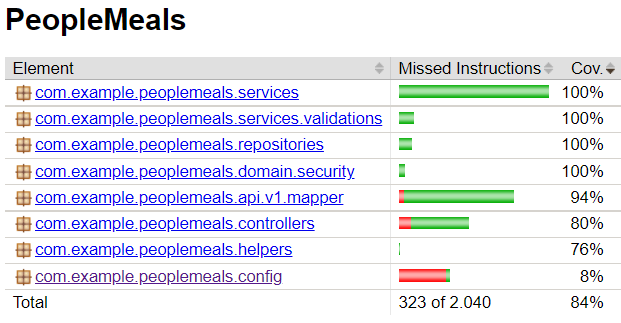
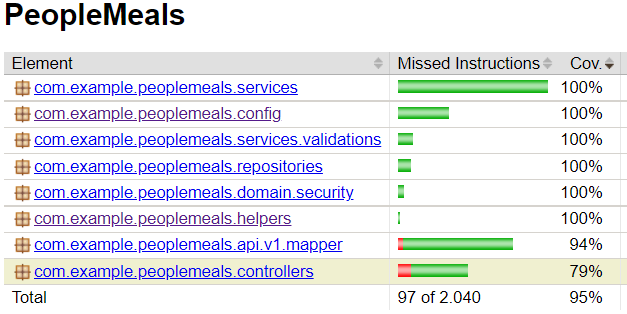
Security tests implemented. README.md updated.

diff --git a/src/test/java/com/example/peoplemeals/config/ApplicationSecurityConfigTest.java b/src/test/java/com/example/peoplemeals/config/ApplicationSecurityConfigTest.java
@@ -1,0 +1,212 @@
+package com.example.peoplemeals.config;
+
+import com.example.peoplemeals.api.v1.model.DishDTO;
+import com.example.peoplemeals.api.v1.model.forms.UserForm;
+import com.example.peoplemeals.domain.Dish;
+import com.example.peoplemeals.domain.security.Credentials;
+import com.example.peoplemeals.domain.security.Role;
+import com.example.peoplemeals.repositories.CredentialsRepository;
+import com.example.peoplemeals.repositories.DishRepository;
+import org.junit.jupiter.api.BeforeEach;
+import org.junit.jupiter.api.Nested;
+import org.junit.jupiter.api.Test;
+import org.junit.runner.RunWith;
+import org.springframework.beans.factory.annotation.Autowired;
+import org.springframework.boot.test.context.SpringBootTest;
+import org.springframework.http.MediaType;
+import org.springframework.security.test.context.support.WithMockUser;
+import org.springframework.test.context.junit4.SpringRunner;
+import org.springframework.test.web.servlet.MockMvc;
+import org.springframework.test.web.servlet.setup.MockMvcBuilders;
+import org.springframework.web.context.WebApplicationContext;
+
+import java.util.UUID;
+
+import static org.springframework.security.test.web.servlet.setup.SecurityMockMvcConfigurers.springSecurity;
+import static org.springframework.test.web.servlet.request.MockMvcRequestBuilders.*;
+import static org.springframework.test.web.servlet.result.MockMvcResultMatchers.status;
+import static testUtils.JsonConverter.asJsonString;
+
+@RunWith(SpringRunner.class)
+@SpringBootTest(webEnvironment = SpringBootTest.WebEnvironment.RANDOM_PORT)
+class ApplicationSecurityConfigTest {
+
+    private final String UUID_example = UUID.randomUUID().toString();
+    @Autowired
+    private WebApplicationContext context;
+    @Autowired
+    private DishRepository dishRepository;
+    @Autowired
+    private CredentialsRepository credentialsRepository;
+    private MockMvc mvc;
+
+    @BeforeEach
+    public void setup() {
+        mvc = MockMvcBuilders
+                .webAppContextSetup(context)
+                .apply(springSecurity())
+                .build();
+    }
+
+    @Nested
+    @WithMockUser(authorities = {"user"})
+    class AccessingWithUserRole {
+        @Nested
+        class CredentialsController {
+            private final String BASE_URL = "/credentials/";
+
+            @Test
+            void get_CredentialsController() throws Exception {
+                mvc.perform(get(BASE_URL)
+                                .accept(MediaType.APPLICATION_JSON)
+                                .contentType(MediaType.APPLICATION_JSON))
+                        .andExpect(status().isForbidden());
+            }
+
+            @Test
+            void post_CredentialsController() throws Exception {
+                mvc.perform(post(BASE_URL)
+                                .accept(MediaType.APPLICATION_JSON)
+                                .contentType(MediaType.APPLICATION_JSON)
+                                .content(asJsonString(new UserForm())))
+                        .andExpect(status().isForbidden());
+            }
+
+            @Test
+            void delete_CredentialsController() throws Exception {
+                String USERNAME_example = "username-example";
+                mvc.perform(delete(BASE_URL + USERNAME_example)
+                                .accept(MediaType.APPLICATION_JSON)
+                                .contentType(MediaType.APPLICATION_JSON))
+                        .andExpect(status().isForbidden());
+            }
+        }
+
+        @Nested
+        class DishController {
+            private final String BASE_URL = "/dishes/";
+            private final DishDTO dishDTO = new DishDTO().withName("name_example");
+
+            @Test
+            void get_DishController() throws Exception {
+                mvc.perform(get(BASE_URL)
+                                .accept(MediaType.APPLICATION_JSON)
+                                .contentType(MediaType.APPLICATION_JSON))
+                        .andExpect(status().isOk());
+            }
+
+            @Test
+            void post_DishController() throws Exception {
+                mvc.perform(post(BASE_URL)
+                                .accept(MediaType.APPLICATION_JSON)
+                                .contentType(MediaType.APPLICATION_JSON)
+                                .content(asJsonString(dishDTO)))
+                        .andExpect(status().isCreated());
+            }
+
+            @Test
+            void delete_DishController() throws Exception {
+                mvc.perform(delete(BASE_URL + UUID_example)
+                                .accept(MediaType.APPLICATION_JSON)
+                                .contentType(MediaType.APPLICATION_JSON))
+                        .andExpect(status().isForbidden());
+            }
+
+            @Test
+            void put_DishController() throws Exception {
+                Dish dishSaved = dishRepository.save(new Dish()
+                        .withName("any-name").withUuid(UUID.randomUUID()));
+                mvc.perform(put(BASE_URL + dishSaved.getUuid().toString())
+                                .accept(MediaType.APPLICATION_JSON)
+                                .contentType(MediaType.APPLICATION_JSON)
+                                .content(asJsonString(dishDTO)))
+                        .andExpect(status().isOk());
+            }
+        }
+    }
+
+    @Nested
+    @WithMockUser(authorities = {"admin"})
+    class AccessingWithAdminRole {
+        @Nested
+        class CredentialsController {
+            private final String BASE_URL = "/credentials/";
+
+            @Test
+            void get_CredentialsController() throws Exception {
+                mvc.perform(get(BASE_URL)
+                                .accept(MediaType.APPLICATION_JSON)
+                                .contentType(MediaType.APPLICATION_JSON))
+                        .andExpect(status().isOk());
+            }
+
+            @Test
+            void post_CredentialsController() throws Exception {
+                mvc.perform(post(BASE_URL)
+                                .accept(MediaType.APPLICATION_JSON)
+                                .contentType(MediaType.APPLICATION_JSON)
+                                .content(asJsonString(new UserForm()
+                                        .withUsername("username")
+                                        .withPassword("password")
+                                        .withRole(Role.ADMIN))))
+                        .andExpect(status().isCreated());
+            }
+
+            @Test
+            void delete_CredentialsController() throws Exception {
+                Credentials credentialsSaved = credentialsRepository.save(new Credentials()
+                        .withUsername("another_username").withPassword("password").withRole(Role.ADMIN));
+                mvc.perform(delete(BASE_URL + credentialsSaved.getUsername())
+                                .accept(MediaType.APPLICATION_JSON)
+                                .contentType(MediaType.APPLICATION_JSON))
+                        .andExpect(status().isOk());
+            }
+        }
+
+        @Nested
+        class DishController {
+            private final String BASE_URL = "/dishes/";
+            private final DishDTO dishDTO = new DishDTO().withName("name_example");
+
+            @Test
+            void get_DishController() throws Exception {
+                mvc.perform(get(BASE_URL)
+                                .accept(MediaType.APPLICATION_JSON)
+                                .contentType(MediaType.APPLICATION_JSON))
+                        .andExpect(status().isOk());
+            }
+
+            @Test
+            void post_DishController() throws Exception {
+                mvc.perform(post(BASE_URL)
+                                .accept(MediaType.APPLICATION_JSON)
+                                .contentType(MediaType.APPLICATION_JSON)
+                                .content(asJsonString(dishDTO)))
+                        .andExpect(status().isCreated());
+            }
+
+            @Test
+            void delete_DishController() throws Exception {
+                Dish dishSaved = dishRepository.save(new Dish()
+                        .withName("any-name").withUuid(UUID.randomUUID()));
+                mvc.perform(delete(BASE_URL + dishSaved.getUuid().toString())
+                                .accept(MediaType.APPLICATION_JSON)
+                                .contentType(MediaType.APPLICATION_JSON))
+                        .andExpect(status().isOk());
+            }
+
+            @Test
+            void put_DishController() throws Exception {
+                Dish dishSaved = dishRepository.save(new Dish()
+                        .withName("any-name").withUuid(UUID.randomUUID()));
+                mvc.perform(put(BASE_URL + dishSaved.getUuid().toString())
+                                .accept(MediaType.APPLICATION_JSON)
+                                .contentType(MediaType.APPLICATION_JSON)
+                                .content(asJsonString(dishDTO)))
+                        .andExpect(status().isOk());
+            }
+        }
+    }
+
+
+}

diff --git a/src/test/java/com/example/peoplemeals/helpers/DayOfWeekHelperTest.java b/src/test/java/com/example/peoplemeals/helpers/DayOfWeekHelperTest.java
@@ -12,6 +12,12 @@ class DayOfWeekHelperTest {
     @Nested
     class SuccessTests {
         @Test
+        void validateUtilityClassInstantiation() {
+            final DayOfWeekHelper dayOfWeekHelperInstantiation = new DayOfWeekHelper();
+            assertNotNull(dayOfWeekHelperInstantiation);
+        }
+
+        @Test
         void validateADayOfWeek() {
             //given
             DayOfWeek dayOfWeek1 = DayOfWeek.MONDAY;

diff --git a/README.md b/README.md
@@ -59,14 +59,21 @@ It was organized a service-oriented architecture as can be seen below
 
 [Planning Controller documentation here](https://documenter.getpostman.com/view/18570764/UzBvFNN3)
 
-
 ## Testing
 
 * There are Unit Tests for each method
-* An Integration Test was implemented for processes that require Database use
+* Two Integration Test were implemented:
+
+> for processes that require Database use
+
+> for Security authorization context environment
+
 * Postman public WorksSpace for testing:
 
 > [Postman - PeopleMeals endpoints Test](https://www.postman.com/jucron/workspace/peoplemeals-endpoints-test-joo-renault/overview)
 
 * Code coverage report from JaCoCo plugin:
-  ![img_2.png](img_2.png)
+
+![img_2.png](img_2.png)
+
+`Note: Classes with no practical reason to be tested were annotated with @NoCoverageGenerated`
